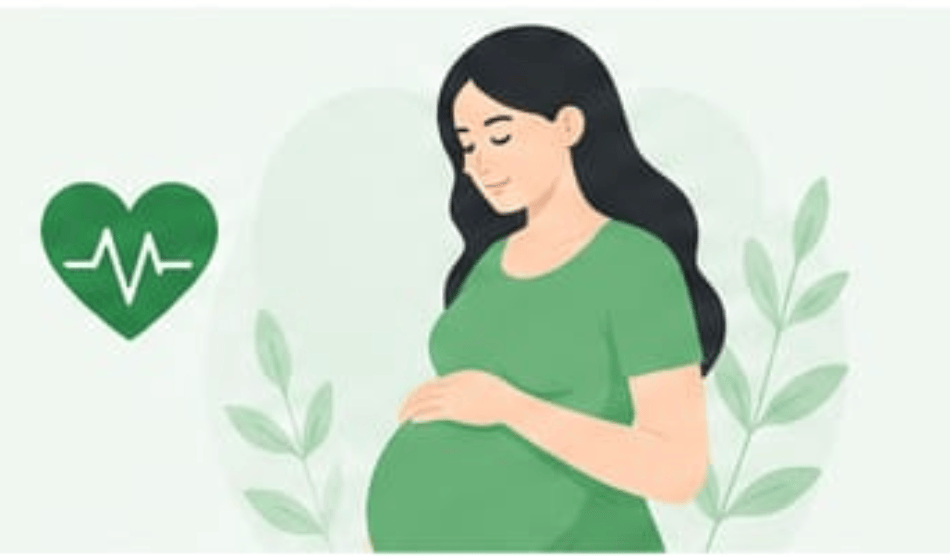
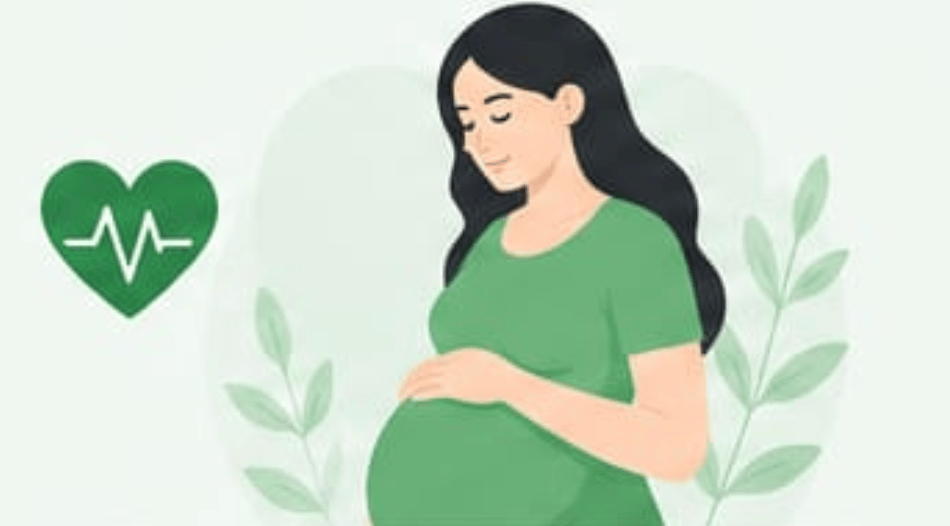
final frontend done

diff --git a/frontend/src/components/MainCard.jsx b/frontend/src/components/MainCard.jsx
@@ -1,67 +1,59 @@
+
 import React from "react";
-import { ArrowRight } from "lucide-react";
 import pregnantImg from "../assets/pregnant.png";
-import reportImg from "../assets/report.png";
 import { useNavigate } from "react-router-dom";
 
-
 function MainCard() {
-    const navigate = useNavigate();
-  return (
-    <div className="bg-[#b2cdb8] rounded-3xl p-6 shadow-sm">
 
-      <div className="flex flex-col md:flex-row md:items-center md:justify-between gap-6">
+  const navigate = useNavigate();
 
-        {/* LEFT SECTION */}
-        <div className="flex items-start gap-10">
+  
+return (
 
-        {/* ICON */}
-        <div className="flex justify-center">
-            <img
-            src={reportImg}
-            alt="Report"
-            className="w-[70px] md:w-[100px] object-cover rounded-3xl"
-            />
-        </div>
+  <div className="bg-[#eef6ef] rounded-3xl p-6 md:p-8 shadow-sm overflow-hidden">
 
-          {/* TEXT */}
-          <div>
+    <div className="flex flex-col lg:flex-row items-center justify-between gap-8">
 
-            <h2 className="text-2xl font-bold text-green-700">
-              Predict Maternal Risk
-            </h2>
+      {/* LEFT */}
+      <div className="flex-1 text-center lg:text-left">
 
-            <p className="text-gray-600 mt-3 leading-7 max-w-[400px]">
-              Assess risk of Anemia and Gestational Diabetes Mellitus (GDM)
-              using AI-powered prediction.
-            </p>
+        <h2 className="text-3xl md:text-4xl font-bold text-green-900 leading-tight">
+          Predict Maternal Risk
+        </h2>
 
-            {/* BUTTON */}
-            <button
-                onClick={() => navigate("/predict")}
-                className="bg-[#388e55] text-white px-6 py-3 rounded-2xl font-semibold hover:scale-105 transition"
-                onClick={() => navigate("/predict")}
-                >
-                Start Prediction
-            </button>
+        <p className="text-gray-700 mt-4 leading-7 max-w-[420px] text-base md:text-lg mx-auto lg:mx-0">
+          Assess risk of Anemia and Gestational Diabetes Mellitus (GDM)
+          using AI-powered prediction.
+        </p>
 
-          </div>
+      </div>
 
-        </div>
+      {/* RIGHT */}
+      <div className="flex flex-col items-center gap-4">
 
-        {/* RIGHT SIDE */}
-        <div className="flex justify-center">
-            <img
-                src={pregnantImg}
-                alt="Pregnant Woman"
-                className="w-[220px] md:w-[280px] object-cover rounded-3xl"
-            />
-        </div>
+        <img
+          src={pregnantImg}
+          alt="Pregnant Woman"
+          className="w-[170px] md:w-[230px] object-contain"
+        />
+
+        <button
+          onClick={() => navigate("/predict")}
+          className="bg-[#388e55] text-white px-7 py-4 rounded-2xl font-semibold hover:scale-105 transition"
+        >
+          Start Prediction
+        </button>
 
       </div>
 
     </div>
-  );
+
+  </div>
+
+);
+
+
 }
 
 export default MainCard;
+

diff --git a/frontend/src/components/Topbar.jsx b/frontend/src/components/Topbar.jsx
@@ -1,29 +1,32 @@
+
 import React from "react";
 import { Menu } from "lucide-react";
 import hospitalImg from "../assets/hospital.png";
 
-function Topbar() {
-  return (
-    <div className="bg-white px-5 py-4 flex items-center justify-between rounded-3xl shadow-sm">
+function Topbar({ setShowSidebar }) {
 
-      {/* LEFT SECTION */}
+  return (
+    <div className="bg-white px-4 md:px-6 py-4 flex items-center justify-between rounded-3xl shadow-sm">
+
+      {/* LEFT */}
       <div className="flex items-center gap-4">
 
-        {/* HAMBURGER */}
-        <button className="md:hidden p-2 rounded-xl hover:bg-gray-100">
-
+        {/* MOBILE MENU */}
+        <button
+          onClick={() => setShowSidebar(true)}
+          className="md:hidden p-2 rounded-xl hover:bg-gray-100"
+        >
           <Menu size={28} />
-
         </button>
 
-        {/* WELCOME */}
+        {/* TEXT */}
         <div>
 
           <p className="text-gray-500 text-sm">
             Welcome,
           </p>
 
-          <h1 className="text-2xl font-bold text-gray-800">
+          <h1 className="text-xl md:text-2xl font-bold text-gray-800">
             ASHA Worker 👋
           </h1>
 
@@ -31,19 +34,20 @@ function Topbar() {
 
       </div>
 
-      {/* RIGHT SIDE IMAGE */}
-      <div className="mt-8 flex justify-center">
+      {/* RIGHT IMAGE */}
+      <div className="flex justify-center">
 
         <img
-            src={hospitalImg}
-            alt="HOSPITAL IMG"
-            className="w-27 h-20 object-cover rounded-3xl"
+          src={hospitalImg}
+          alt="Hospital"
+          className="w-16 md:w-20 h-16 md:h-20 object-cover rounded-3xl"
         />
 
-    </div>
+      </div>
 
     </div>
   );
 }
 
 export default Topbar;
+

diff --git a/frontend/src/pages/Home.jsx b/frontend/src/pages/Home.jsx
@@ -1,4 +1,4 @@
-import React from "react";
+import React, { useState } from "react";
 
 import Sidebar from "../components/Sidebar";
 import Topbar from "../components/Topbar";
@@ -12,17 +12,44 @@ import { useNavigate } from "react-router-dom";
 
 function Home() {
     const navigate = useNavigate();
+    const [showSidebar, setShowSidebar] = useState(false);
   return (
     <div className="bg-[#f5f9f6] min-h-screen flex">
 
       {/* SIDEBAR */}
+      
+{/* DESKTOP SIDEBAR */}
+<div className="hidden md:block">
+  <Sidebar />
+</div>
+
+{/* MOBILE SIDEBAR */}
+{showSidebar && (
+
+  <div className="fixed inset-0 z-50 flex">
+
+    {/* OVERLAY */}
+    <div
+      className="absolute inset-0 bg-black/40"
+      onClick={() => setShowSidebar(false)}
+    />
+
+    {/* DRAWER */}
+    <div className="relative z-50">
       <Sidebar />
+    </div>
+
+  </div>
+
+)}
+
+
 
       {/* MAIN CONTENT */}
       <div className="flex-1 p-4 md:p-8">
 
         {/* TOPBAR */}
-        <Topbar />
+        <Topbar setShowSidebar={setShowSidebar} />
 
         {/* CONTENT */}
         <div className="mt-8">
@@ -30,11 +57,16 @@ function Home() {
           {/* TITLE */}
           <div className="mb-6">
 
-            <h2 className="text-3xl font-bold text-gray-800">
+            
+            <h2 className="text-3xl md:text-4xl font-bold text-gray-800 leading-tight">
+
+
               What would you like to do today?
             </h2>
 
-            <p className="text-gray-500 mt-2">
+            
+<p className="text-gray-500 mt-2 text-base md:text-lg">
+
               Select an option below to continue
             </p>
 

diff --git a/frontend/src/components/Sidebar.jsx b/frontend/src/components/Sidebar.jsx
@@ -13,7 +13,7 @@ import {
 function Sidebar() {
   const navigate = useNavigate();
   return (
-    <div className="hidden md:flex flex-col w-[260px] bg-white border-r min-h-screen p-5">
+    <div className="flex flex-col w-[260px] bg-white border-r min-h-screen p-5">
 
       {/* LOGO */}
       <div className="mb-10">
@@ -63,15 +63,15 @@ function Sidebar() {
 
       </div>
       {/* ASHA IMAGE */}
-<div className="mt-auto flex justify-center pt-10">
+    <div className="mt-auto flex justify-center pt-10">
 
-  <img
-    src={ashaImg}
-    alt="ASHA Worker"
-    className="w-[220px] md:w-[280px] object-cover rounded-3xl"
-  />
+      <img
+        src={ashaImg}
+        alt="ASHA Worker"
+        className="w-[170px] object-contain rounded-3xl"
+      />
 
-</div>
+    </div>
 
     </div>
   );

diff --git a/frontend/src/pages/AboutGDM.jsx b/frontend/src/pages/AboutGDM.jsx
@@ -32,7 +32,7 @@ function AboutGDM() {
           <img
             src={gdmImg}
             alt="GDM"
-            className="w-40 "
+            className="w-32 "
           />
 
           <h1 className="text-3xl font-bold text-[#1f3d2b] mt-5">
